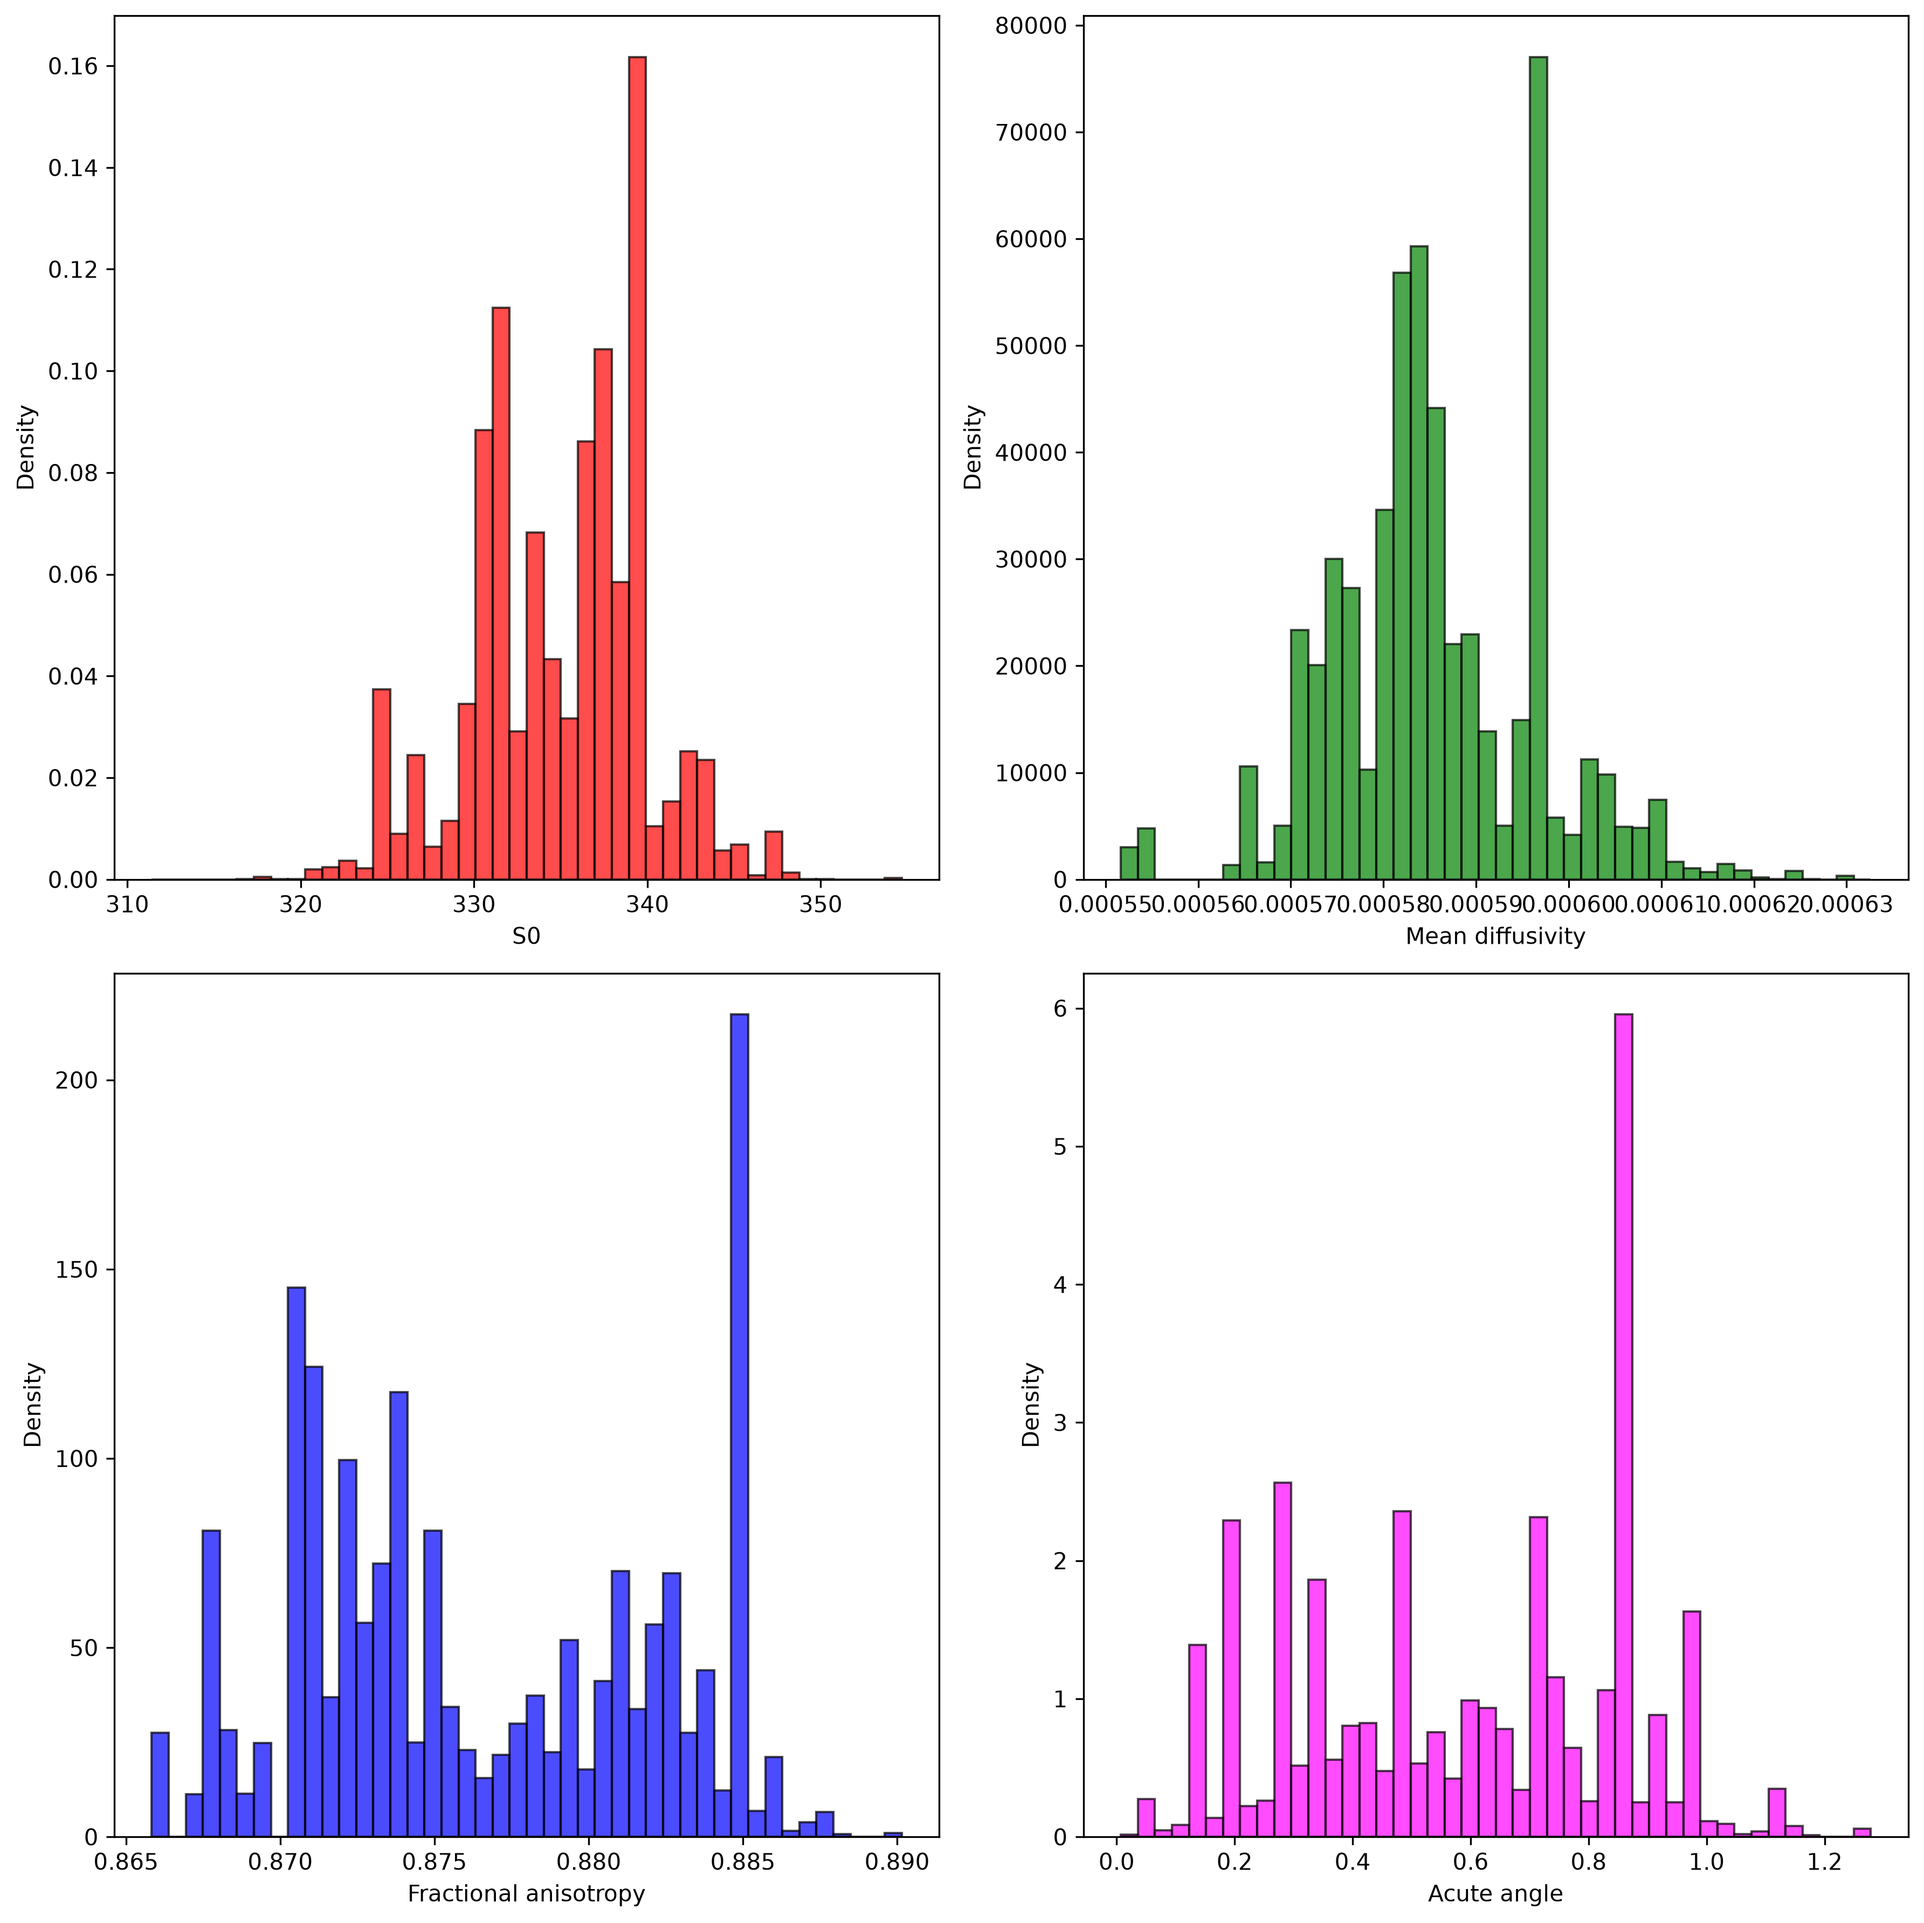
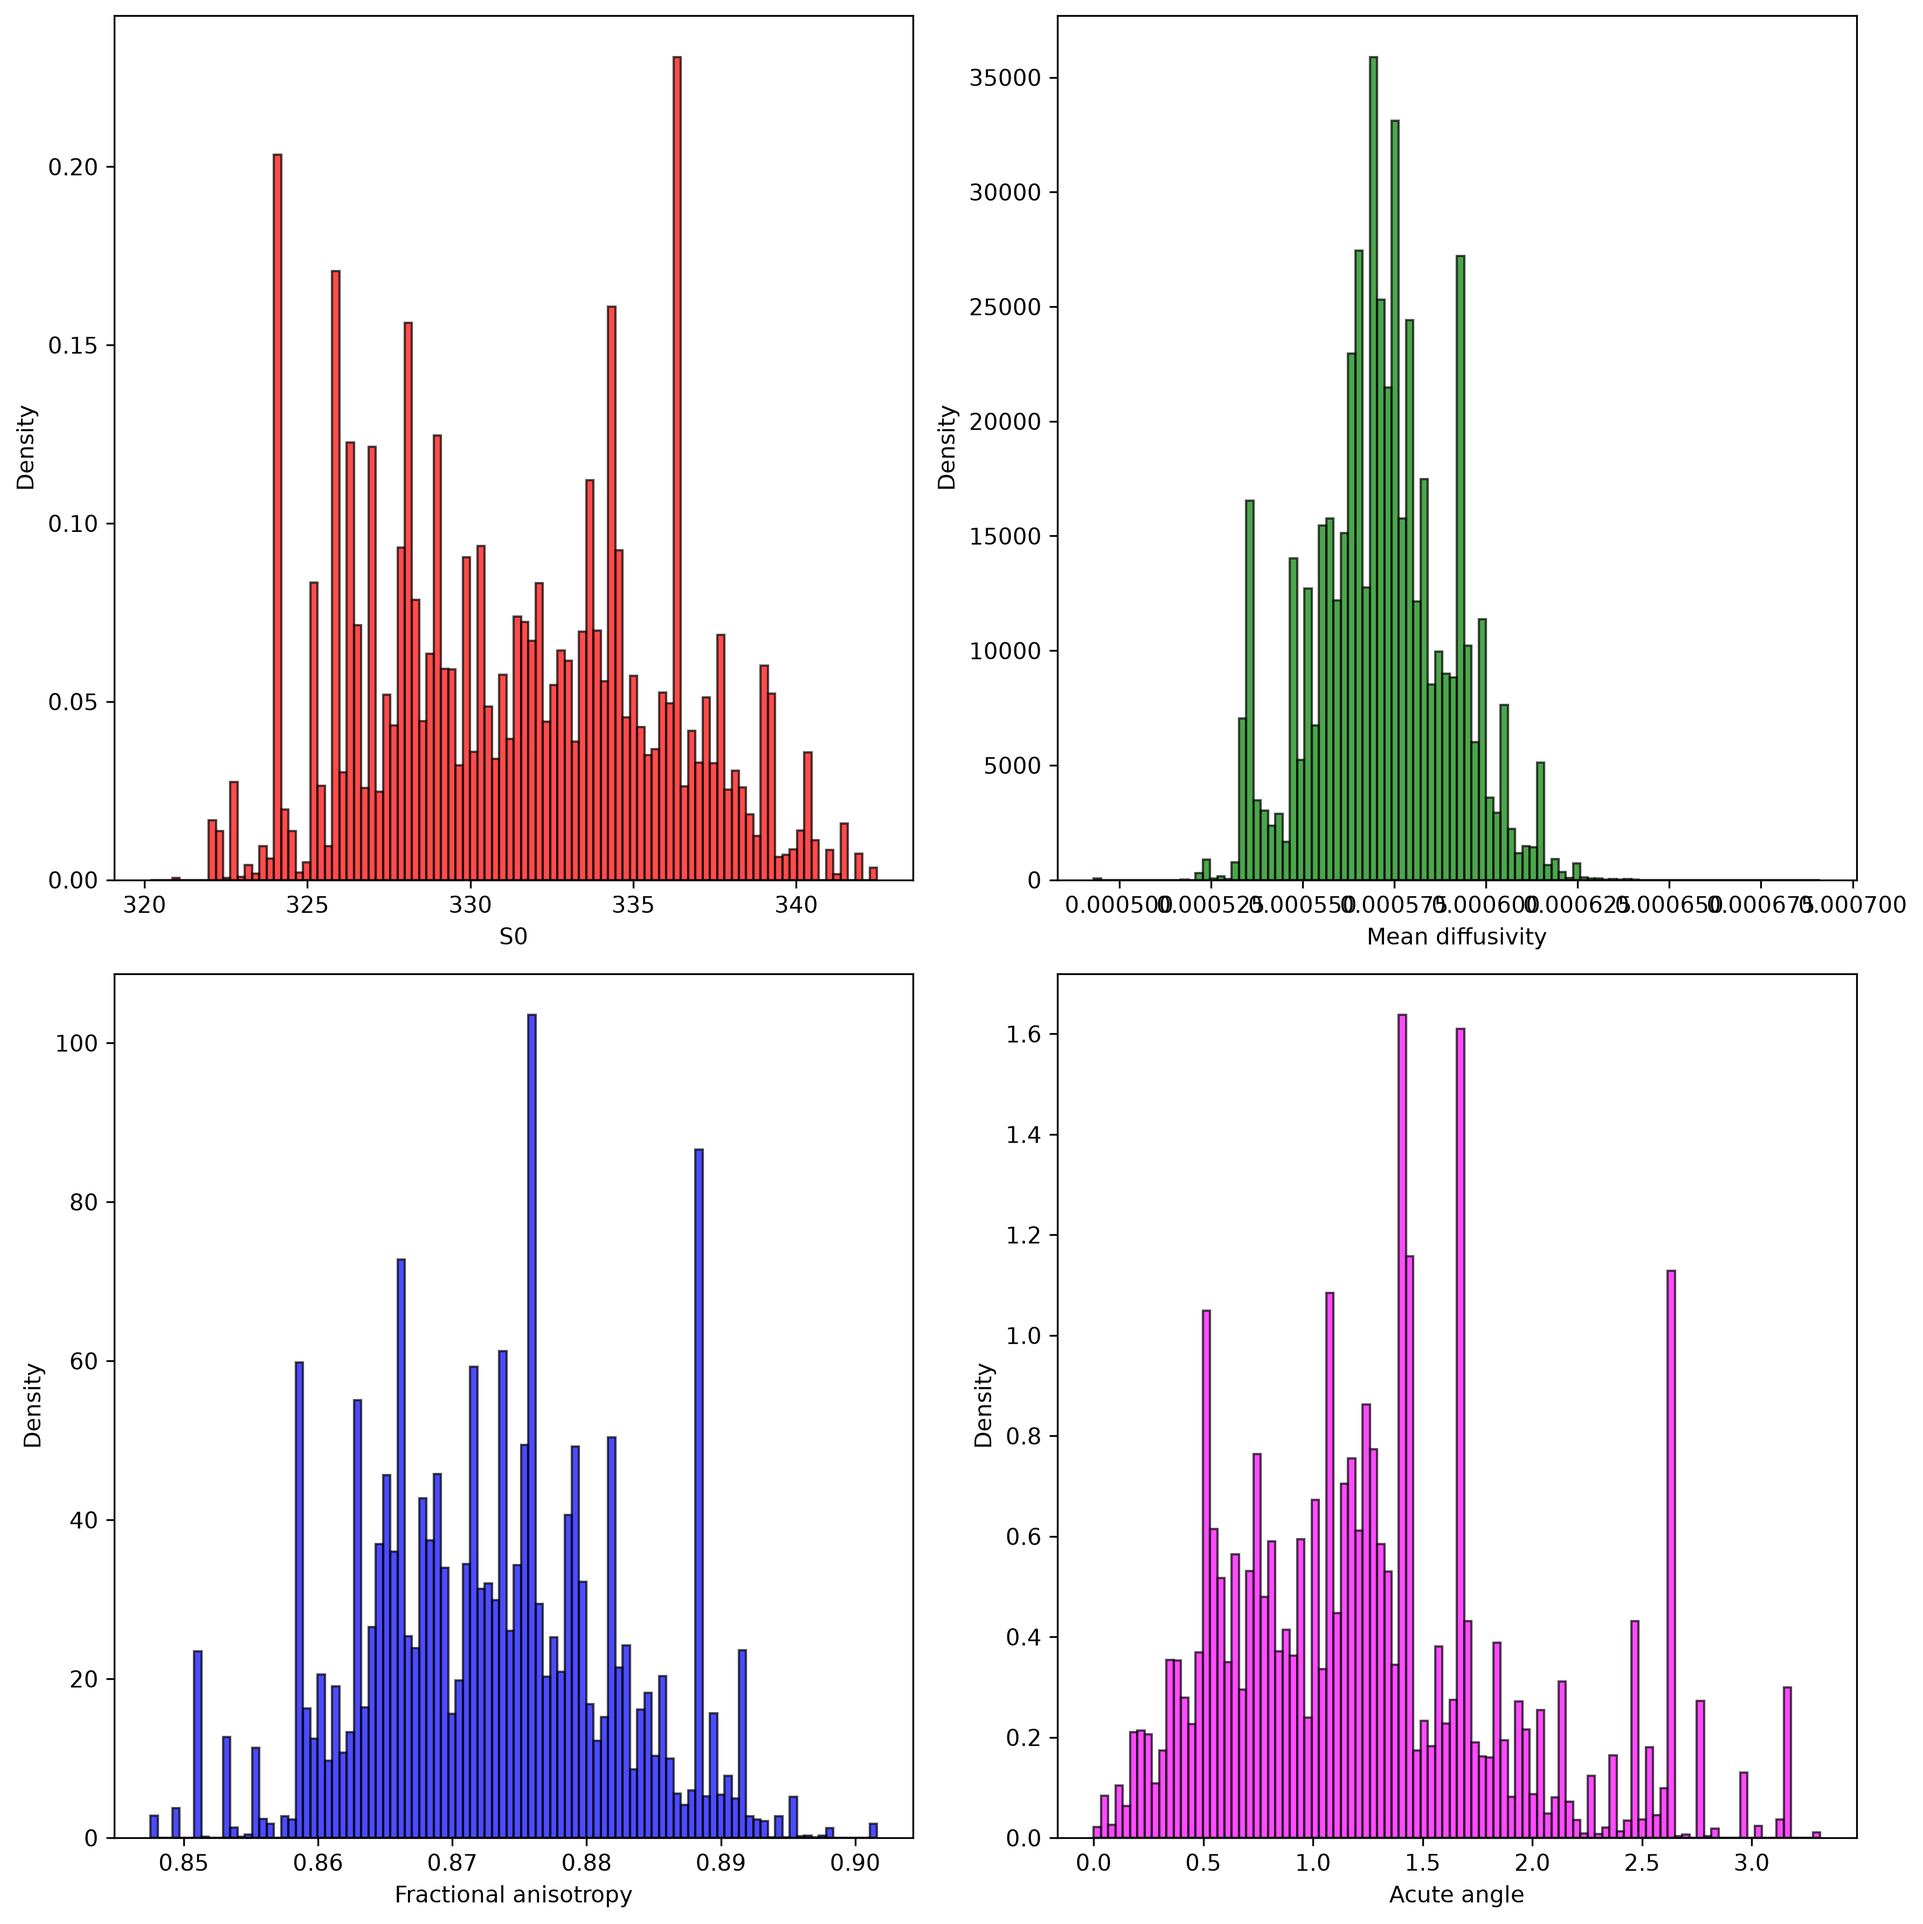
IS better

diff --git a/dmri_project.py b/dmri_project.py
@@ -623,9 +623,9 @@ def importance_sampling(*args, **kwargs):
     # Note: you may change, add, or remove input parameters depending on your design
     # (e.g. pass initialization values like those prepared in main()).
 
-    n_samples = kwargs.get('n_samples', 2000)
-    gamma_S = kwargs.get('gamma_S', 0.02)
-    nu = kwargs.get('nu', 4000)
+    n_samples = kwargs.get('n_samples', 10000)
+    gamma_S = kwargs.get('gamma_S', 0.008979591836734694)
+    nu = kwargs.get('nu', 1000)
 
     y, point_estimate, gtab = get_preprocessed_data()
     S0_init, evals_init, evecs_init = point_estimate
@@ -655,29 +655,32 @@ def importance_sampling(*args, **kwargs):
 
 
 def tune_importance_sampling():
-    """Small, readable grid search for gamma_S and nu."""
+    """Broader but still lightweight ESS search for the IS proposal."""
     best_gamma = None
     best_nu = None
     best_ess = -np.inf
 
-    for gamma_S in [0.01, 0.02, 0.03, 0.04, 0.05, 0.06, 0.08, 0.1]:
-        for nu in [2000, 5000, 10000, 20000, 40000, 80000]:
+    gamma_values = np.linspace(0.005, 0.2, 20)
+    nu_values = [1000, 2000, 5000, 10000, 20000, 40000, 80000, 150000]
+
+    for gamma_S in gamma_values:
+        for nu in nu_values:
             weights, _, _, _ = importance_sampling(
                 force_recompute=True,
                 n_samples=2000,
-                gamma_S=gamma_S,
-                nu=nu,
+                gamma_S=float(gamma_S),
+                nu=int(nu),
             )
             ess = 1.0 / np.sum(weights**2)
 
             if ess > best_ess:
                 best_ess = ess
-                best_gamma = gamma_S
-                best_nu = nu
+                best_gamma = float(gamma_S)
+                best_nu = int(nu)
 
-            print(f"gamma_S={gamma_S:.2f} nu={nu:7d} ESS={ess:8.1f}")
+            print(f"gamma_S={gamma_S:.4f} nu={nu:7d} ESS={ess:10.2f}")
 
-    print("BEST:", best_gamma, best_nu, "ESS=", round(best_ess, 1))
+    print("BEST:", best_gamma, best_nu, "ESS=", round(best_ess, 2))
     return (best_gamma, best_nu), best_ess
 
 
@@ -839,8 +842,8 @@ def main():
     S0_init, evals_init, evecs_init = point_estimate
     D_init = compute_D(evals_init, evecs_init).squeeze()
 
-    # Find principal eigenvector from DTI estimate (for plotting)
-    evec_principal = evecs_init[:, 0]
+    # Find the principal eigenvector from the DTI estimate (for plotting)
+    evec_principal = evecs_init[:, np.argmax(evals_init)]
 
     # Set random seed and number of posterior samples
     np.random.seed(0)
@@ -851,8 +854,15 @@ def main():
     # burn_in = 0
     # plot_results(S0_mh[burn_in:], evals_mh[burn_in:], evecs_mh[burn_in:, :, :], evec_principal, method="mh")
 
-    # Run Importance Sampling and plot results
-    w_is, S0_is, evals_is, evecs_is = importance_sampling(force_recompute=True)
+    # Run Importance Sampling and plot results with the tuned proposal
+    # (seeded inside the function, so the figure is the same on every run)
+    w_is, S0_is, evals_is, evecs_is = importance_sampling(
+        force_recompute=True,
+        n_samples=n_samples,
+        gamma_S=GAMMA_S_TUNED,
+        nu=NU_TUNED,
+        seed=0,
+    )
     plot_results(S0_is, evals_is, evecs_is, evec_principal, weights=w_is, method="is")
 
     # Run Variational Inference and plot results
@@ -860,21 +870,76 @@ def main():
     S0_vi, evals_vi, evecs_vi = posterior_vi.rvs(size=n_samples)
     plot_results(S0_vi, evals_vi, evecs_vi, evec_principal, method="vi")
 
+    # Importance sampling with the alternative (adapted Student-t) proposal
+    w_ais, S0_ais, evals_ais, evecs_ais, ess_history = adaptive_importance_sampling(
+        posterior_vi, n_samples=n_samples, seed=0
+    )
+    plot_results(S0_ais, evals_ais, evecs_ais, evec_principal, weights=w_ais, method="is_adaptive")
+
+    # ESS of the three proposals over 10 seeds (fixed, variational, adapted)
+    ess_fixed = [1 / np.sum(importance_sampling.__wrapped__(n_samples=n_samples, seed=s)[0]**2)
+                 for s in range(10)]
+    ess_adapt = np.array([adaptive_importance_sampling(posterior_vi, n_samples=n_samples, seed=s)[4]
+                          for s in range(10)])
+    print(f"\nESS out of {n_samples}, mean +- std over 10 seeds")
+    print(f"  fixed proposal (gamma_S={GAMMA_S_TUNED}, nu={NU_TUNED}): "
+          f"{np.mean(ess_fixed):.0f} +- {np.std(ess_fixed):.0f}  (seed 0: {1 / np.sum(w_is**2):.0f})")
+    print(f"  variational proposal: {ess_adapt[:, 0].mean():.0f} +- {ess_adapt[:, 0].std():.0f}")
+    print(f"  adapted Student-t proposal: {ess_adapt[:, -1].mean():.0f} +- {ess_adapt[:, -1].std():.0f}"
+          f"  (seed 0: {ess_history[-1]:.0f})")
+
+    # Posterior dependence between S0 and MD, which the factorized proposals cannot represent
+    c = np.cov(np.vstack([S0_ais, dti.mean_diffusivity(evals_ais)]), aweights=w_ais)
+    print(f"  posterior correlation of S0 and MD (adapted IS): {c[0, 1] / np.sqrt(c[0, 0] * c[1, 1]):.2f}")
+
+    # 95% credible intervals (Table 1 in the report)
+    print("\n95% equal-tailed credible intervals [2.5%, 50%, 97.5%]")
+    print_intervals("IS, fixed proposal", S0_is, evals_is, evecs_is, evec_principal, w_is)
+    print_intervals("IS, adapted proposal", S0_ais, evals_ais, evecs_ais, evec_principal, w_ais)
+    print_intervals("VI", S0_vi, evals_vi, evecs_vi, evec_principal)
+
+    plot_comparison(
+        [(S0_is, evals_is, evecs_is, w_is, "IS, fixed proposal"),
+         (S0_ais, evals_ais, evecs_ais, w_ais, "IS, adapted proposal"),
+         (S0_vi, evals_vi, evecs_vi, None, "VI")],
+        evec_principal,
+    )
+
+
 
     # # Run Laplace Approximation and plot results
     # posterior_laplace = laplace_approximation(force_recompute=False)
     # S0_laplace, evals_laplace, evecs_laplace = posterior_laplace.rvs(size=n_samples)
     # plot_results(S0_laplace, evals_laplace, evecs_laplace, evec_principal, method="laplace")
 
+    print("Done.")
+    # Plot the ELBO after VI has finished
+    elbo = posterior_vi.elbo_history
 
-    # Resample IS according to its weights so both methods give unweighted samples
-    idx = np.random.choice(len(w_is), size=len(w_is), p=w_is)
+    plt.figure()
+    plt.plot(elbo, alpha=0.3, label="Raw ELBO estimate")
 
-    for name, S0, evals in [("IS", S0_is[idx], evals_is[idx]), ("VI", S0_vi, evals_vi)]:
-        print(f"\n{name} 95% credible intervals:")
-        print("S0:", np.percentile(S0, [2.5, 97.5]))
-        print("MD:", np.percentile(dti.mean_diffusivity(evals), [2.5, 97.5]))
-        print("FA:", np.percentile(dti.fractional_anisotropy(evals), [2.5, 97.5]))
+    # Moving average to make the overall trend visible
+    window = 100
+    smoothed_elbo = np.convolve(
+        elbo,
+        np.ones(window) / window,
+        mode="valid"
+    )
+
+    plt.plot(
+        np.arange(window - 1, len(elbo)),
+        smoothed_elbo,
+        linewidth=2,
+        label="100-iteration moving average"
+    )
+
+    plt.xlabel("Iteration")
+    plt.ylabel("Estimated ELBO")
+    plt.title("Variational inference convergence")
+    plt.legend()
+    plt.grid(alpha=0.3)
+    plt.savefig("Convergence_VI.png", dpi=300, bbox_inches='tight')
 
     print("Done.")
     # Plot the ELBO after VI has finished
@@ -943,9 +1008,24 @@ def plot_results(S0, evals, evecs, evec_ref, weights=None, method=""):
     md = dti.mean_diffusivity(evals).squeeze()
     fa = dti.fractional_anisotropy(evals).squeeze()
 
-    # Compute acute angle between estimated and reference eigenvectors
-    angle = 360/(2*np.pi) * np.arccos(np.abs(np.dot(evecs[:, :, 2], evec_ref)))
-    
+    # Compute the acute angle between each sample's principal diffusion direction
+    # and the reference principal direction. The eigenvector ordering is not
+    # guaranteed to match the principal axis across all samples, so we select the
+    # eigenvector corresponding to the largest eigenvalue in each sample.
+    if evecs.ndim == 3 and evals.ndim == 2:
+        principal_idx = np.argmax(evals, axis=1)
+        principal_evecs = np.stack(
+            [evecs[i, :, principal_idx[i]] for i in range(len(evals))],
+            axis=0,
+        )
+        angle = np.degrees(
+            np.arccos(np.clip(np.abs(np.sum(principal_evecs * evec_ref, axis=1)), -1.0, 1.0))
+        )
+    else:
+        angle = np.degrees(
+            np.arccos(np.clip(np.abs(np.dot(evecs[:, :, 2], evec_ref)), -1.0, 1.0))
+        )
+
     # Create 2x2 grid of histograms
     fig, axes = plt.subplots(2, 2, figsize=(12, 12), sharey=False)
 
